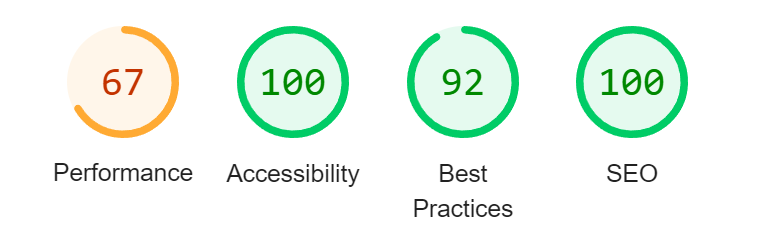
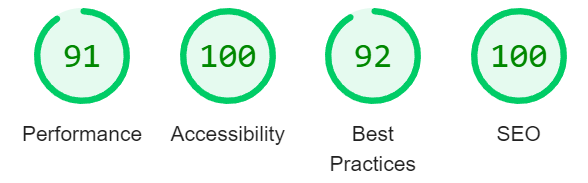
Move javascript file from base template to the index page

diff --git a/templates/base.html b/templates/base.html
@@ -109,7 +109,9 @@
     <script src="https://cdn.jsdelivr.net/npm/bootstrap@5.3.0-alpha3/dist/js/bootstrap.min.js"
         integrity="sha384-Y4oOpwW3duJdCWv5ly8SCFYWqFDsfob/3GkgExXKV4idmbt98QcxXYs9UoXAB7BZ" crossorigin="anonymous">
     </script>
-    <script src="{% static 'js/scripts.js' %}"></script>
+    {% block postloadjs %}
+    {% endblock %}
+    <!-- <script src="{% static 'js/scripts.js' %}"></script> -->
 </body>
 
 </html>

diff --git a/templates/index.html b/templates/index.html
@@ -151,3 +151,7 @@
     </div>
 </section>
 {% endblock %}
+
+{% block postloadjs %}
+    <script src="{% static 'js/scripts.js' %}"></script>
+{% endblock %}
